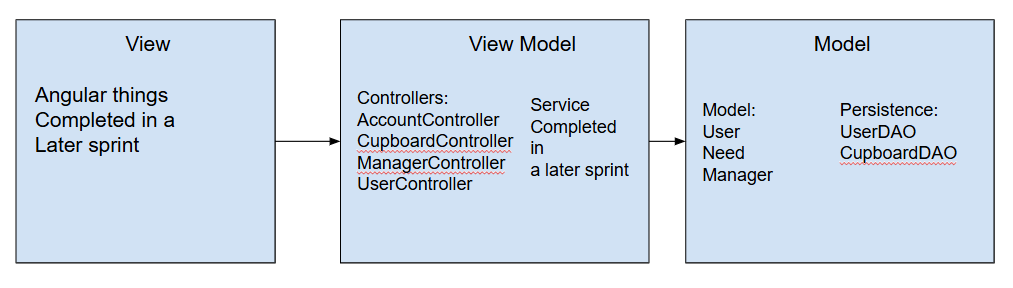
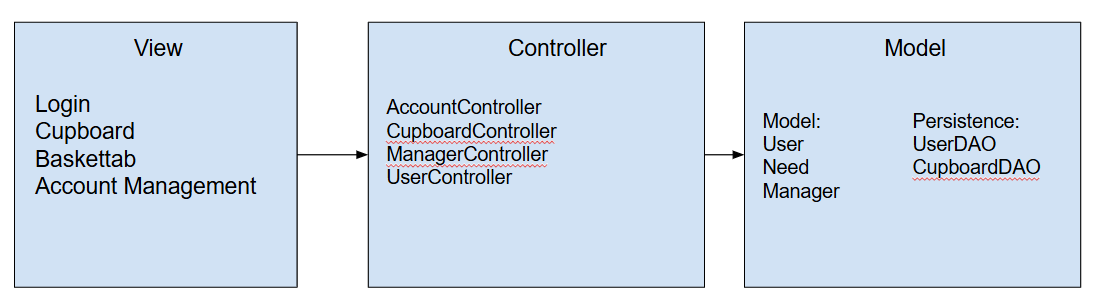
Updated design document for sprint 2. It's still missing a couple of final changes though

diff --git a/docs/DesignDoc.md b/docs/DesignDoc.md
@@ -30,7 +30,8 @@ This is a summary of the project.
 
 | Term | Definition |
 |------|------------|
-| SPA | Single Page |
+| SPA | Single Page Application |
+| User | Anyone who uses the system (either a helper or a manager)|
 
 
 ## Requirements
@@ -70,7 +71,7 @@ This section describes the application architecture.
 
 The following Tiers/Layers model shows a high-level view of the webapp's architecture. 
 **NOTE**: detailed diagrams are required in later sections of this document.
-> _**[Sprint 1]** (Augment this diagram with your **own** rendition and representations of sample system classes, placing them into the appropriate M/V/VM (orange rectangle) tier section. Focus on what is currently required to support **Sprint 1 - Demo requirements**. Make sure to describe your design choices in the corresponding _**Tier Section**_ and also in the _**OO Design Principles**_ section below.)_
+> _**[Sprint 1]** (Augment this diagram with your **own** rendition and representations of sample system classes, placing them into the appropriate M/V/C (orange rectangle) tier section. Focus on what is currently required to support **Sprint 1 - Demo requirements**. Make sure to describe your design choices in the corresponding _**Tier Section**_ and also in the _**OO Design Principles**_ section below.)_
 
 ![The Tiers & Layers of the Architecture](architecture.png)
 
@@ -78,24 +79,27 @@ The web application, is built using the Model–View–ViewModel (MVVM) architec
 
 The Model stores the application data objects including any functionality to provide persistance. 
 
-The View is the client-side SPA built with Angular utilizing HTML, CSS and TypeScript. The ViewModel provides RESTful APIs to the client (View) as well as any logic required to manipulate the data objects from the Model.
+The View is the client-side SPA built with Angular utilizing HTML, CSS and TypeScript. The Controller provides RESTful APIs to the client (View) as well as any logic required to manipulate the data objects from the Model.
 
-Both the ViewModel and Model are built using Java and Spring Framework. Details of the components within these tiers are supplied below.
+Both the Controller and Model are built using Java and Spring Framework. Details of the components within these tiers are supplied below.
 
 
 ### Overview of User Interface
 
-This section describes the web interface and flow; this is how the user views and interacts with the web application.
->_For the reference below, provide an initial draft image/sketch of possible layout of a mayor page of your User Interface and a brief description of the elements it contains **[Sprint 1]**_
+First page a user sees when visiting website is the login. Here they can enter their username and password (of which the password appears as only dots) and then press either login to login or Create Account to create an account with the inputted information.
+![Login UI](loginui.png)
 
-![Replace with your First concept of a layout for a mayor page in the User Interface](Base-UI-Design.png)
+After logging in or creating an account a user is taken to the cupboard page, seen here being viewed as a helper. Here a help can search for needs and/or add needs to their basket.
+![Cupboard tab UI as seen by a helper](helperui.png)
 
-### 
-> _Provide a summary of the application's user interface.  Describe, from the user's perspective, the flow of the pages/navigation in the web application.
+If instead the user is a manager they will see this page in which, alongside searching for needs, lets them add, edit, and delete needs.
+![Cupboard tab UI as seen by a manager](managerui.png)
 
-Once the helper reaches this main page, the 3 lines represent a collapsable table of buttons as shown. The basket button takes them to a page that shows which needs they've added, has a button for them to checkout at the bottom, and a button next to each need to remove it from basket if they so wish. The main page also had a search bar which when a term is added, will update the list of needs that match the term. The manager version would have the basket layout without the checkout button. Instead, the checkout button will have a create button that takes them to an input page to get the variables to craete a need. The list of needs they effect will be the cupboard, which stores the total list of needs.
+If a helper presses on the "Basket" button on the lefthand side they can reach the basket page where they can removing things from their basket and/or checkout their basket.
+![Basket tab UI as seen by a helper](basketui.png)
 
->  (Add low-fidelity mockups prior to initiating your **[Sprint 2]**  work so you have a good idea of the user interactions.) Eventually replace with representative screen shots of your high-fidelity results as these become available and finally include future recommendations improvement recommendations for your **[Sprint 4]** )_
+If a user presses on the "Account Management" button on the lefthand side they can reach a page where they can edit their account information such as their username (only if a helper) and password as well as log out and delete their account (only if they are a helper)
+![Account Management tab UI as seen by a helper](amui.png)
 
 
 ### View Tier
@@ -111,18 +115,17 @@ Once the helper reaches this main page, the 3 lines represent a collapsable tabl
 > to help illustrate the end-to-end flow._
 
 > _**[Sprint 4]** To adequately show your system, you will need to present the **class diagrams** where relevant in your design. Some additional tips:_
- >* _Class diagrams only apply to the **ViewModel** and **Model** Tier_
+ >* _Class diagrams only apply to the **Controller** and **Model** Tier_
 >* _A single class diagram of the entire system will not be effective. You may start with one, but will be need to break it down into smaller sections to account for requirements of each of the Tier static models below._
  >* _Correct labeling of relationships with proper notation for the relationship type, multiplicities, and navigation information will be important._
  >* _Include other details such as attributes and method signatures that you think are needed to support the level of detail in your discussion._
 
-### ViewModel Tier
-> _**[Sprint 1]** List the classes supporting this tier and provide a description of there purpose._
+### Controller Tier
 
-Account Controller - Provides API functionality for login/logout<br>
+Account Controller - Provides API functionality for login, logout, api key verification, etc<br>
 Cupboard Controller - Provides API functionality to access Need objects<br>
-Manager Controller - Provides API functionality to for all manager related tasks<br>
-User Controller - Provides API functionality to for all helper related tasks 
+Manager Controller - Provides API functionality to for all Manager related tasks<br>
+User Controller - Provides API functionality to for all Helper related tasks
 
 > _**[Sprint 4]** Provide a summary of this tier of your architecture. This
 > section will follow the same instructions that are given for the View
@@ -131,10 +134,9 @@ User Controller - Provides API functionality to for all helper related tasks
 > _At appropriate places as part of this narrative provide **one** or more updated and **properly labeled**
 > static models (UML class diagrams) with some details such as associations (connections) between classes, and critical attributes and methods. (**Be sure** to revisit the Static **UML Review Sheet** to ensure your class diagrams are using correct format and syntax.)_
 > 
-![Replace with your ViewModel Tier class diagram 1, etc.](Controller-UML.png)
+![Replace with your Controller Tier class diagram 1, etc.](Controller-UML.png)
 
 ### Model Tier
-> _**[Sprint 1]** List the classes supporting this tier and provide a description of there purpose._
 
 Manager: A manager adds and removes needs from their cupboard.<br>
 Need: A need is some item that a manager needs funded.<br>
@@ -149,11 +151,9 @@ CupboardDAO: The CupboardDAO provides functions to store and edit the cupboard.
 > _At appropriate places as part of this narrative provide **one** or more updated and **properly labeled**
 > static models (UML class diagrams) with some details such as associations (connections) between classes, and critical attributes and methods. (**Be sure** to revisit the Static **UML Review Sheet** to ensure your class diagrams are using correct format and syntax.)_
 > 
-![Replace with your Model Tier class diagram 1, etc.](model.png)
+![Model UML diagram](model.png)
 
 ## OO Design Principles
-
-> _**[Sprint 1]** Name and describe the initial OO Principles that your team has considered in support of your design (and implementation) for this first Sprint._
 
 Single Responsibility: We made sure that each class was small and only is responsible for themselves.<br>
 Open/Closed: We have made it so only authorized users can access and edit data as needed.<br>
@@ -175,24 +175,29 @@ Pure Fabrication: We have created DAO files.
 > _**[Sprint 4]** Discuss **future** refactoring and other design improvements your team would explore if the team had additional time._
 
 ## Testing
-> _This section will provide information about the testing performed
-> and the results of the testing._
+> _This section will provide information about the testing performed and the results of the testing._
 
 ### Acceptance Testing
-> _**[Sprint 2 & 4]** Report on the number of user stories that have passed all their
-> acceptance criteria tests, the number that have some acceptance
-> criteria tests failing, and the number of user stories that
-> have not had any testing yet. Highlight the issues found during
-> acceptance testing and if there are any concerns._
+
+<!--List how many user stories we have and for them how many acceptance criteria pass and how many fail (and give reason why)-->
+
+By the end of Sprint 2 we have 39 User stories.<br>
+Currently, for the acceptance criteria we have, all stories pass.
+
+The only issues that would arise were from faulty code. These would be fixed during the testing phase when another team member would analyze their code and figure out what went wrong, collaborate with the creator, and fix it.
 
 ### Unit Testing and Code Coverage
-> _**[Sprint 4]** Discuss your unit testing strategy. Report on the code coverage
-> achieved from unit testing of the code base. Discuss the team's
-> coverage targets, why you selected those values, and how well your
-> code coverage met your targets._
 
->_**[Sprint 2, 3 & 4]** **Include images of your code coverage report.** If there are any anomalies, discuss
-> those._
+Our strategy for unit testing was ensure everything is covered, all possible cases.
+Currently (end of Sprint 2) our code coverage is the following:
+
+![Code Coverage](cc.png)
+
+<!--List anomolies in the cc report here if there are any-->
 
 ## Ongoing Rationale
->_**[Sprint 1, 2, 3 & 4]** Throughout the project, provide a time stamp **(yyyy/mm/dd): Sprint # and description** of any _**mayor**_ team decisions or design milestones/changes and corresponding justification._
+
+2025/10/20: Sprint 2<br>
+Main programming for Sprint 2 is now complete, merged, and mostly tested (still need to do the actual acceptance testing writeup but).
+
+<!--Add more stuff here following above format as it happens such as 'team decisions or design milestones/changes and corresponding justification'-->
